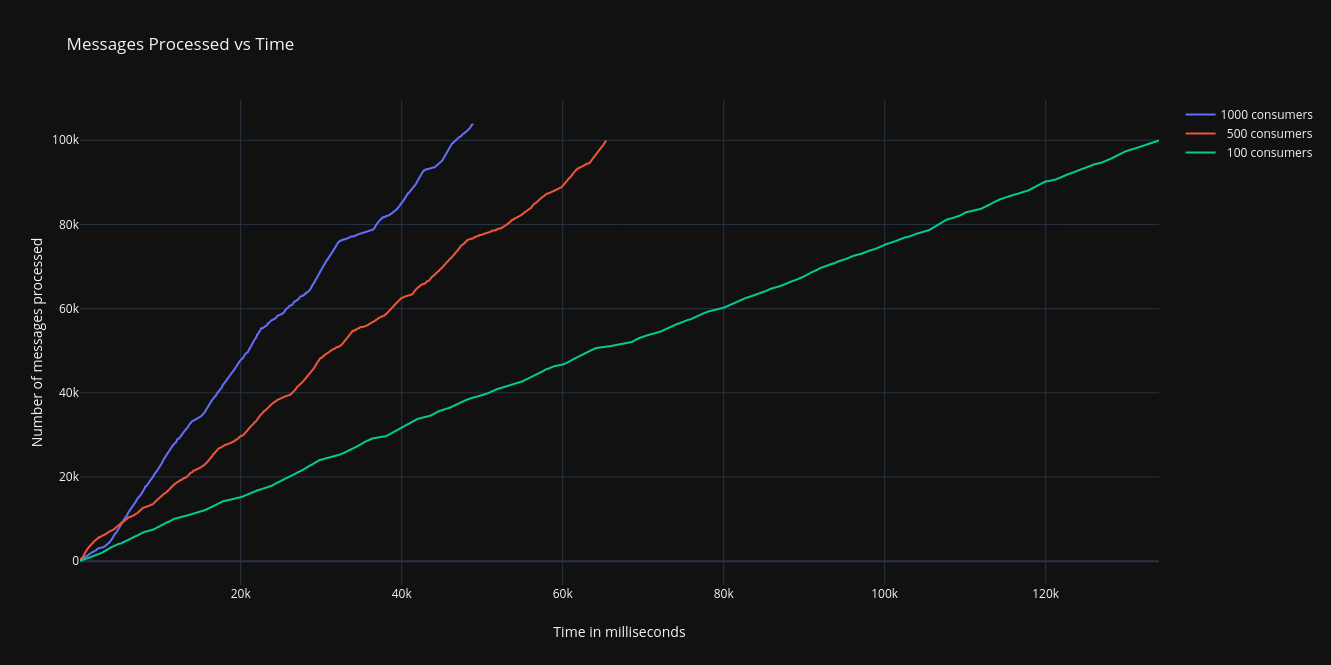
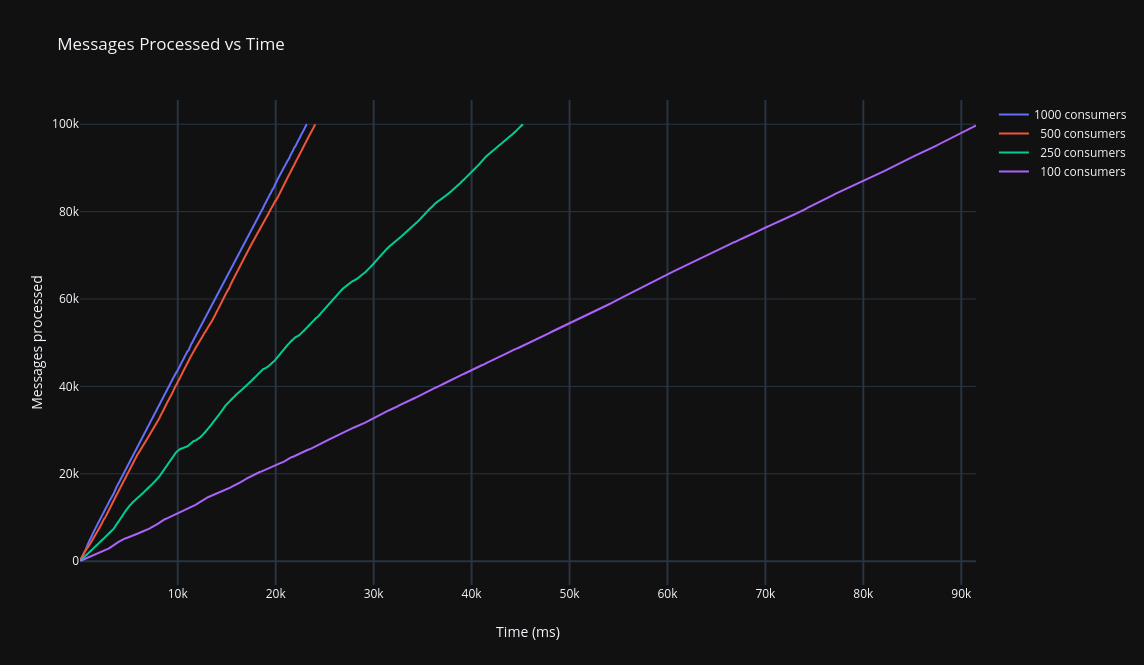
update perf results

diff --git a/readme.md b/readme.md
@@ -131,9 +131,15 @@ automatically chooses the number of sqs polling processes needed to saturate you
 
 ### Performance
 
-Early testing shows around 2200 messages per second of throughput (received, printed, and acked) 
-when using a `consumer-parallelism` of 1000. Obviously the throughput will decrease once you're 
-doing more with each message than printing it. Benchmarking suite forthcoming.
+Casual testing easily reaches 4200 messages per second of throughput (received, printed, and acked) 
+when using a consumer parallelism above 500. This exceeds the 3000 message/second aws limit for fifo 
+queues and is quite high for a single process. Real-world throughput will depend heavily on what you 
+do with each message but it's unlikely Piped will become your bottleneck. 
+
+
+The results below were measured processing 100,000 messages on a mid-range 2019 Macbook Pro 
+over 70 down / 15 up wi-fi and traversing the public internet from Chicago to Virginia (us-east-1).
+
 
 ![Throughput](./docs/throughput.png)
 ---
